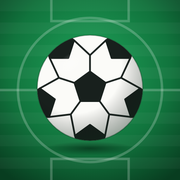
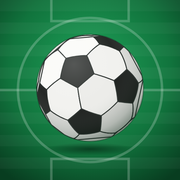
アイコンを本物のサッカーボール（切頂二十面体）の模様に作り直し

Changed region(s): [[0.1944, 0.1667, 0.8056, 0.8056]]

diff --git a/index.html b/index.html
@@ -9,10 +9,10 @@
 <meta name="apple-mobile-web-app-title" content="フォーメーション">
 <meta name="theme-color" content="#f3f5f4">
 <title>フォーメーション管理</title>
-<link rel="manifest" href="manifest.webmanifest">
-<link rel="apple-touch-icon" href="icons/icon-180.png">
-<link rel="icon" type="image/svg+xml" href="icons/icon.svg">
-<link rel="icon" type="image/png" sizes="192x192" href="icons/icon-192.png">
+<link rel="manifest" href="manifest.webmanifest?v=2">
+<link rel="apple-touch-icon" href="icons/icon-180.png?v=2">
+<link rel="icon" type="image/svg+xml" href="icons/icon.svg?v=2">
+<link rel="icon" type="image/png" sizes="192x192" href="icons/icon-192.png?v=2">
 <style>
   :root {
     --bg: #f3f5f4; --card: #fff; --ink: #1b2420; --muted: #6b7a73;
